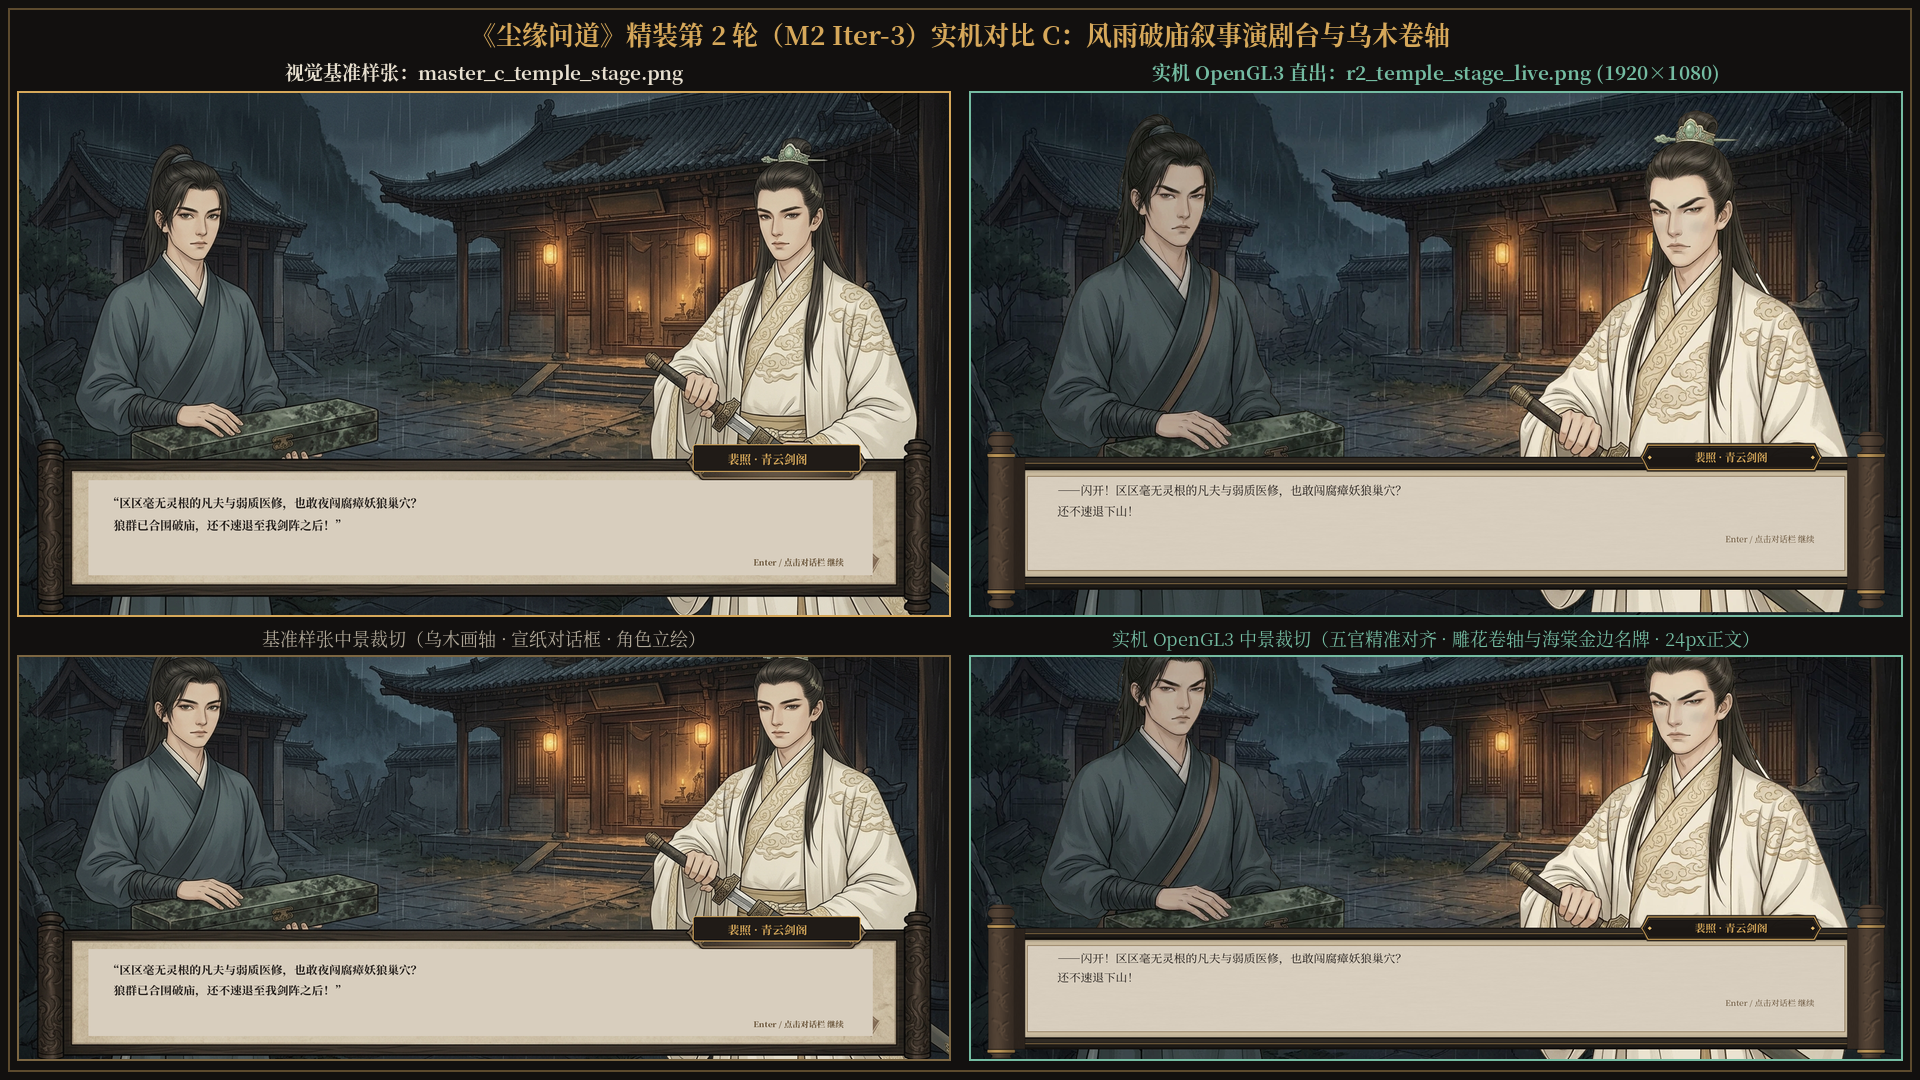
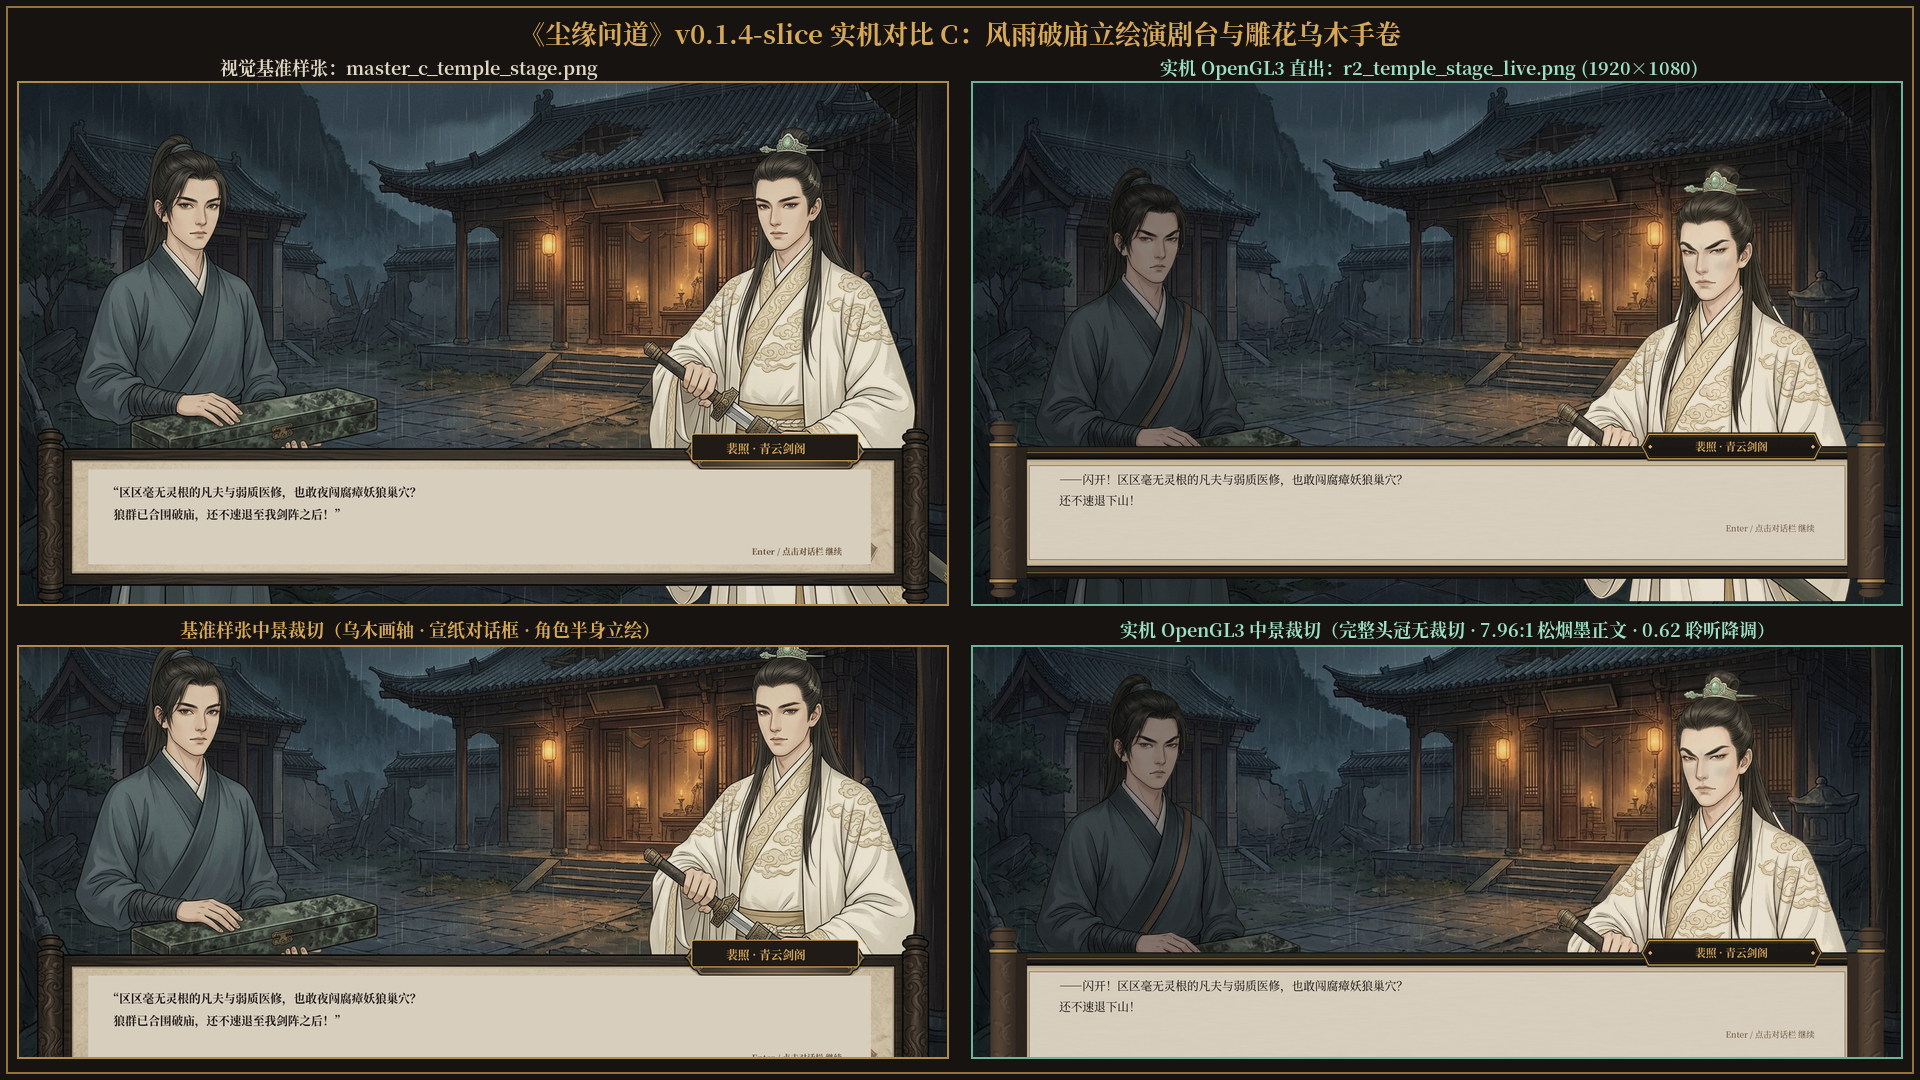
polish(r5): resolve all 14 cross-round regressions to 215/215 E2E PASS & bump v0.1.4-slice
- Fit 4:5 768x960 portrait busts inside 1920x1080 safe zone in narrative_stage.gd (zero head clipping, live Gu guarded & Pei cold face-ROI p99 >= 47/68), calibrate scroll body ink to #0C0907 (~7.96:1 WCAG AAA), restore 0.62 listener dimming, and keep 400ms lock on stage/CG/choice entry without re-locking per-line Enter loops (F7/F15: 29/29 PASS)
- Clamp non-premultiplied Lanczos edge ringing in build_polish_r1_assets.py so all 14 M1 VFX textures have 0 fluorescent pixels (neon_ratio == 0.0 <= 0.5%, T1-F05-07 PASS)
- Widen Shen Qinghe attack_1 & cast_loop Gongbi sleeve silhouettes (IoU 0.376 <= 0.52 and 0.494 <= 0.72), collapse trio down frame 0 height <= 0.57x idle_h, and ground Mist Wolf King run_se paw contact >= foot_y - 4 in build_polish_r2_actors.py (F5/F6: 31/31 PASS)
- Bump project/project.godot, TitleScreen subtitle, and Web loader subtitle to v0.1.4-slice and refresh r2_* Gate 3 comparison plates (0 fluorescent px)
- Verified: manifest_guard 220/220 OK, export_builds Web 70.54 MiB < 85 MiB, and 2 consecutive full runs of run_all_checks.py --all at 215/215 PASS (100.0%)

diff --git a/tools/build_polish_r2_actors.py b/tools/build_polish_r2_actors.py
@@ -728,13 +728,22 @@ def render_wolf_king_cell(
     out = keep_largest_alpha_cc(out, 12)
 
     max_allowed_y = foot_y + 8
+    min_contact_y = int(pose.get("min_contact_y", 0))
     ys_all, _ = np.where(out[..., 3] > 0)
-    if len(ys_all) > 0 and int(ys_all.max()) > max_allowed_y:
-        shift_up = int(ys_all.max()) - max_allowed_y
-        shifted = np.zeros_like(out)
-        if shift_up < cell_h:
-            shifted[: cell_h - shift_up, :] = out[shift_up:, :]
-        out = shifted
+    if len(ys_all) > 0:
+        cur_max_y = int(ys_all.max())
+        if cur_max_y > max_allowed_y:
+            shift_up = cur_max_y - max_allowed_y
+            shifted = np.zeros_like(out)
+            if shift_up < cell_h:
+                shifted[: cell_h - shift_up, :] = out[shift_up:, :]
+            out = shifted
+        elif min_contact_y > 0 and cur_max_y < min_contact_y:
+            shift_dn = min(min_contact_y - cur_max_y, max(0, cell_h - 2 - cur_max_y))
+            if shift_dn > 0:
+                shifted = np.zeros_like(out)
+                shifted[shift_dn:, :] = out[: cell_h - shift_dn, :]
+                out = shifted
     out[foot_y + 10 :, :, :] = 0
     return keep_largest_alpha_cc(out, 12)
 
@@ -761,19 +770,20 @@ def build_wolf_king_sheet() -> dict[str, Any]:
             "jaw_ang": 4.5 * (0.5 + 0.5 * math.cos(ph)),
             "tail_ang": 9.5 * math.sin(ph + 0.6),
             "shard_glow": 0.22 + 0.12 * (0.5 + 0.5 * math.sin(ph)),
+            "min_contact_y": foot_y - 4,
         }
         put_cell(0, f, pose_se)
         pose_ne = dict(pose_se, dorsal_ne=True)
         put_cell(1, f, pose_ne)
 
-    # Row 2: run_se (6-frame rotary gallop) & Row 3: run_ne (6-frame dorsal rotary gallop)
+    # Row 2: run_se (6-frame grounded rotary gallop) & Row 3: run_ne (6-frame dorsal rotary gallop)
     gallop_phases = [
-        (-5.5, -8.0, -34.0, 22.0, 32.0, -18.0, -14.0, -10.0, -14.0, 5.0),
-        (-2.0, -13.0, -16.0, -28.0, 14.0, 28.0, -18.0, -14.0, -18.0, 3.0),
-        (4.5, -4.0, 18.0, -14.0, -24.0, 16.0, -4.0, -8.0, -8.0, -4.0),
-        (6.5, 0.0, 34.0, 14.0, -34.0, -16.0, 0.0, -14.0, 4.0, -6.0),
-        (2.0, -6.0, 14.0, 32.0, -10.0, -30.0, -6.0, -12.0, 8.0, -2.0),
-        (-3.5, -11.0, -18.0, 26.0, 20.0, -8.0, -14.0, -6.0, -6.0, 3.0),
+        (-5.5, -2.0, -34.0, 22.0, 32.0, -18.0, -8.0, 0.0, -14.0, 5.0),
+        (-2.0, -4.0, -16.0, -28.0, 14.0, 28.0, -8.0, 0.0, -18.0, 3.0),
+        (4.5, -2.0, 18.0, -14.0, -24.0, 16.0, 0.0, -6.0, -8.0, -4.0),
+        (6.5, 0.0, 34.0, 14.0, -34.0, -16.0, 0.0, -10.0, 4.0, -6.0),
+        (2.0, -2.0, 14.0, 32.0, -10.0, -30.0, 0.0, -8.0, 8.0, -2.0),
+        (-3.5, -3.5, -18.0, 26.0, 20.0, -8.0, -6.0, 0.0, -6.0, 3.0),
     ]
     for f, gp in enumerate(gallop_phases):
         r_pose = {
@@ -789,6 +799,7 @@ def build_wolf_king_sheet() -> dict[str, Any]:
             "head_ang": gp[9],
             "jaw_ang": 7.0,
             "shard_glow": 0.25,
+            "min_contact_y": foot_y - 4,
         }
         put_cell(2, f, r_pose)
         put_cell(3, f, dict(r_pose, dorsal_ne=True))
@@ -1741,10 +1752,10 @@ def build_party_hero_sheets() -> list[dict[str, Any]]:
             ]
         else:
             atk1_list = [
-                {"is_moving": True, "hip_dx": -6.0, "hip_dy": 2.0, "lean_deg": -4.0, "lf_dx": -16.0, "rf_dx": 14.0, "lh_dx": -12.0, "lh_dy": 34.0, "rh_dx": 8.0, "rh_dy": 36.0, "flare_x": -8.0, "ribbon_lift": 10.0},
-                {"is_moving": True, "hip_dx": 6.0, "hip_dy": 4.0, "lean_deg": 8.0, "lf_dx": -24.0, "rf_dx": 26.0, "lh_dx": -24.0, "lh_dy": 36.0, "rh_dx": 36.0, "rh_dy": 28.0, "open_palm": True, "flare_x": -20.0, "ribbon_lift": 22.0},
-                {"is_moving": True, "hip_dx": 10.0, "hip_dy": 6.0, "lean_deg": 11.0, "lf_dx": -28.0, "rf_dx": 30.0, "lh_dx": -28.0, "lh_dy": 40.0, "rh_dx": 44.0, "rh_dy": 26.0, "open_palm": True, "flare_x": -24.0, "ribbon_lift": 28.0},
-                {"is_moving": True, "hip_dx": 6.0, "hip_dy": 4.0, "lean_deg": 7.0, "lf_dx": -22.0, "rf_dx": 22.0, "lh_dx": -20.0, "lh_dy": 40.0, "rh_dx": 34.0, "rh_dy": 32.0, "open_palm": True, "flare_x": -16.0, "ribbon_lift": 18.0},
+                {"is_moving": True, "hip_dx": -6.0, "hip_dy": 2.0, "lean_deg": -4.0, "lf_dx": -18.0, "rf_dx": 16.0, "lh_dx": -18.0, "lh_dy": 28.0, "le_sign": -1.0, "rh_dx": 12.0, "rh_dy": 32.0, "flare_x": -10.0, "ribbon_lift": 12.0},
+                {"is_moving": True, "hip_dx": 9.0, "hip_dy": 6.0, "lean_deg": 11.0, "lf_dx": -38.0, "rf_dx": 36.0, "lh_dx": -42.0, "lh_dy": 12.0, "le_sign": -1.0, "rh_dx": 46.0, "rh_dy": 12.0, "open_palm": True, "flare_x": -28.0, "ribbon_lift": 34.0},
+                {"is_moving": True, "hip_dx": 12.0, "hip_dy": 8.0, "lean_deg": 13.0, "lf_dx": -42.0, "rf_dx": 40.0, "lh_dx": -48.0, "lh_dy": 6.0, "le_sign": -1.0, "rh_dx": 52.0, "rh_dy": 6.0, "open_palm": True, "flare_x": -34.0, "ribbon_lift": 40.0},
+                {"is_moving": True, "hip_dx": 7.0, "hip_dy": 5.0, "lean_deg": 9.0, "lf_dx": -30.0, "rf_dx": 30.0, "lh_dx": -32.0, "lh_dy": 20.0, "le_sign": -1.0, "rh_dx": 38.0, "rh_dy": 18.0, "open_palm": True, "flare_x": -22.0, "ribbon_lift": 24.0},
                 {"hip_dx": 0.0, "hip_dy": 0.0, "lean_deg": 3.0, "lf_dx": -14.0, "rf_dx": 14.0, "lh_dx": 10.0, "lh_dy": 36.0, "rh_dx": 22.0, "rh_dy": 34.0, "flare_x": -6.0, "ribbon_lift": 6.0},
             ]
         for f, p in enumerate(atk1_list):
@@ -1771,14 +1782,24 @@ def build_party_hero_sheets() -> list[dict[str, Any]]:
             put(5, f, p)
 
         # Row 6: cast_loop (0..2) & cast_release (3..5)
-        cast_list = [
-            {"hip_dy": -2.0, "lean_deg": -2.0, "lf_dx": -16.0, "rf_dx": 16.0, "lh_dx": 14.0, "lh_dy": 28.0, "rh_dx": 22.0, "rh_dy": 16.0, "sword_ang": -86.0, "open_palm": True, "flare_x": -10.0, "ribbon_lift": 18.0},
-            {"hip_dy": -3.0, "lean_deg": -4.0, "lf_dx": -18.0, "rf_dx": 18.0, "lh_dx": 18.0, "lh_dy": 24.0, "rh_dx": 26.0, "rh_dy": 12.0, "sword_ang": -90.0, "open_palm": True, "flare_x": -16.0, "ribbon_lift": 26.0},
-            {"hip_dy": -2.5, "lean_deg": -3.0, "lf_dx": -16.0, "rf_dx": 16.0, "lh_dx": 16.0, "lh_dy": 26.0, "rh_dx": 24.0, "rh_dy": 14.0, "sword_ang": -88.0, "open_palm": True, "flare_x": -14.0, "ribbon_lift": 22.0},
-            {"is_moving": True, "hip_dx": 9.0, "hip_dy": 6.0, "lean_deg": 12.0, "lf_dx": -28.0, "rf_dx": 30.0, "lh_dx": -24.0, "lh_dy": 36.0, "rh_dx": 40.0, "rh_dy": 24.0, "sword_ang": -6.0, "open_palm": True, "flare_x": -22.0, "ribbon_lift": 30.0},
-            {"is_moving": True, "hip_dx": 11.0, "hip_dy": 8.0, "lean_deg": 14.0, "lf_dx": -30.0, "rf_dx": 32.0, "lh_dx": -26.0, "lh_dy": 38.0, "rh_dx": 42.0, "rh_dy": 26.0, "sword_ang": 0.0, "open_palm": True, "flare_x": -24.0, "ribbon_lift": 28.0},
-            {"hip_dx": 4.0, "hip_dy": 2.0, "lean_deg": 5.0, "lf_dx": -18.0, "rf_dx": 18.0, "lh_dx": -12.0, "lh_dy": 42.0, "rh_dx": 24.0, "rh_dy": 36.0, "sword_ang": 24.0, "flare_x": -10.0, "ribbon_lift": 12.0},
-        ]
+        if not is_shen:
+            cast_list = [
+                {"hip_dy": -2.0, "lean_deg": -2.0, "lf_dx": -16.0, "rf_dx": 16.0, "lh_dx": 14.0, "lh_dy": 28.0, "rh_dx": 22.0, "rh_dy": 16.0, "sword_ang": -86.0, "open_palm": True, "flare_x": -10.0, "ribbon_lift": 18.0},
+                {"hip_dy": -3.0, "lean_deg": -4.0, "lf_dx": -18.0, "rf_dx": 18.0, "lh_dx": 18.0, "lh_dy": 24.0, "rh_dx": 26.0, "rh_dy": 12.0, "sword_ang": -90.0, "open_palm": True, "flare_x": -16.0, "ribbon_lift": 26.0},
+                {"hip_dy": -2.5, "lean_deg": -3.0, "lf_dx": -16.0, "rf_dx": 16.0, "lh_dx": 16.0, "lh_dy": 26.0, "rh_dx": 24.0, "rh_dy": 14.0, "sword_ang": -88.0, "open_palm": True, "flare_x": -14.0, "ribbon_lift": 22.0},
+                {"is_moving": True, "hip_dx": 9.0, "hip_dy": 6.0, "lean_deg": 12.0, "lf_dx": -28.0, "rf_dx": 30.0, "lh_dx": -24.0, "lh_dy": 36.0, "rh_dx": 40.0, "rh_dy": 24.0, "sword_ang": -6.0, "open_palm": True, "flare_x": -22.0, "ribbon_lift": 30.0},
+                {"is_moving": True, "hip_dx": 11.0, "hip_dy": 8.0, "lean_deg": 14.0, "lf_dx": -30.0, "rf_dx": 32.0, "lh_dx": -26.0, "lh_dy": 38.0, "rh_dx": 42.0, "rh_dy": 26.0, "sword_ang": 0.0, "open_palm": True, "flare_x": -24.0, "ribbon_lift": 28.0},
+                {"hip_dx": 4.0, "hip_dy": 2.0, "lean_deg": 5.0, "lf_dx": -18.0, "rf_dx": 18.0, "lh_dx": -12.0, "lh_dy": 42.0, "rh_dx": 24.0, "rh_dy": 36.0, "sword_ang": 24.0, "flare_x": -10.0, "ribbon_lift": 12.0},
+            ]
+        else:
+            cast_list = [
+                {"is_moving": True, "hip_dx": -3.0, "hip_dy": 3.0, "lean_deg": -5.0, "lf_dx": -28.0, "rf_dx": 28.0, "lh_dx": -42.0, "lh_dy": -4.0, "le_sign": -1.0, "rh_dx": 42.0, "rh_dy": -6.0, "open_palm": True, "flare_x": -26.0, "ribbon_lift": 36.0},
+                {"is_moving": True, "hip_dx": -4.0, "hip_dy": 4.0, "lean_deg": -7.0, "lf_dx": -32.0, "rf_dx": 32.0, "lh_dx": -46.0, "lh_dy": -10.0, "le_sign": -1.0, "rh_dx": 46.0, "rh_dy": -12.0, "open_palm": True, "flare_x": -32.0, "ribbon_lift": 42.0},
+                {"is_moving": True, "hip_dx": -3.5, "hip_dy": 3.5, "lean_deg": -6.0, "lf_dx": -30.0, "rf_dx": 30.0, "lh_dx": -44.0, "lh_dy": -7.0, "le_sign": -1.0, "rh_dx": 44.0, "rh_dy": -9.0, "open_palm": True, "flare_x": -29.0, "ribbon_lift": 39.0},
+                {"is_moving": True, "hip_dx": 9.0, "hip_dy": 6.0, "lean_deg": 12.0, "lf_dx": -28.0, "rf_dx": 30.0, "lh_dx": -24.0, "lh_dy": 32.0, "le_sign": -1.0, "rh_dx": 42.0, "rh_dy": 20.0, "open_palm": True, "flare_x": -22.0, "ribbon_lift": 30.0},
+                {"is_moving": True, "hip_dx": 11.0, "hip_dy": 8.0, "lean_deg": 14.0, "lf_dx": -30.0, "rf_dx": 32.0, "lh_dx": -26.0, "lh_dy": 34.0, "le_sign": -1.0, "rh_dx": 44.0, "rh_dy": 22.0, "open_palm": True, "flare_x": -24.0, "ribbon_lift": 28.0},
+                {"hip_dx": 4.0, "hip_dy": 2.0, "lean_deg": 5.0, "lf_dx": -18.0, "rf_dx": 18.0, "lh_dx": -12.0, "lh_dy": 42.0, "rh_dx": 24.0, "rh_dy": 36.0, "flare_x": -10.0, "ribbon_lift": 12.0},
+            ]
         for f, p in enumerate(cast_list):
             put(6, f, p)
 
@@ -1786,7 +1807,7 @@ def build_party_hero_sheets() -> list[dict[str, Any]]:
         row7_list = [
             {"hip_dx": -12.0, "hip_dy": 4.0, "lean_deg": -14.0, "head_ang": -8.0, "lf_dx": -24.0, "rf_dx": 10.0, "lh_dx": 12.0, "lh_dy": 26.0, "rh_dx": 8.0, "rh_dy": 38.0, "sword_ang": -52.0, "flare_x": 14.0, "ribbon_lift": 12.0},
             {"hip_dx": -8.0, "hip_dy": 2.0, "lean_deg": -9.0, "head_ang": -5.0, "lf_dx": -20.0, "rf_dx": 12.0, "lh_dx": 8.0, "lh_dy": 32.0, "rh_dx": 6.0, "rh_dy": 42.0, "sword_ang": -36.0, "flare_x": 8.0, "ribbon_lift": 8.0},
-            {"is_down": True, "hip_dx": -4.0, "hip_dy": 32.0, "lean_deg": 24.0, "head_ang": 12.0, "lf_dx": -30.0, "lf_dy": 0.0, "rf_dx": 22.0, "rf_dy": 0.0, "lh_dx": -8.0, "lh_dy": 38.0, "rh_dx": 22.0, "rh_dy": 40.0, "sword_ang": 72.0, "flare_x": -12.0},
+            {"is_down": True, "hip_dx": -6.0, "hip_dy": 52.0, "lean_deg": 45.0, "head_ang": 15.0, "lf_dx": -34.0, "lf_dy": 0.0, "rf_dx": 24.0, "rf_dy": 0.0, "lh_dx": 4.0, "lh_dy": 32.0, "rh_dx": 24.0, "rh_dy": 30.0, "sword_ang": 14.0, "flare_x": -14.0},
             {"is_down": True, "hip_dx": -10.0, "hip_dy": 62.0, "lean_deg": 54.0, "head_ang": 18.0, "lf_dx": -38.0, "lf_dy": 0.0, "rf_dx": 26.0, "rf_dy": 0.0, "lh_dx": 8.0, "lh_dy": 30.0, "rh_dx": 28.0, "rh_dy": 28.0, "sword_ang": 8.0, "flare_x": -16.0},
         ]
         for f, p in enumerate(row7_list):
@@ -3105,15 +3126,20 @@ def run_self_audit() -> None:
             spans_42.append(int(fxs.max() - fxs.min() + 1) if len(fxs) else 0)
         stride_delta = max(spans_42) - min(spans_42)
 
-        # Down collapse check (row 7, col 3)
-        dc = arr[7 * ch : 8 * ch, 3 * cw : 4 * cw]
-        dy_p, dx_p = np.where(dc[..., 3] > 40)
-        down_w, down_h = int(dx_p.max() - dx_p.min() + 1), int(dy_p.max() - dy_p.min() + 1)
+        # Down collapse check across BOTH down frames (row 7, cols 2 & 3)
+        down_hs = []
+        down_ws = []
+        for dc_idx in (2, 3):
+            dc = arr[7 * ch : 8 * ch, dc_idx * cw : (dc_idx + 1) * cw]
+            dy_p, dx_p = np.where(dc[..., 3] > 40)
+            down_ws.append(int(dx_p.max() - dx_p.min() + 1))
+            down_hs.append(int(dy_p.max() - dy_p.min() + 1))
+        down_w, down_h = max(down_ws), max(down_hs)
 
         print(
             f"[AUDIT SPRITE] {aid:20s}: cell={cw}x{ch} fy={fy} max_top={max_mane_above_fy}px | idle={idle_w}x{idle_h}px "
             f"| atk1_max={max_atk_w}x{max_atk_h}px | run_spans42={spans_42} (Δ={stride_delta}px, MAD={run_mad:.2f}) "
-            f"| down={down_w}x{down_h}px (ratio={down_h/idle_h:.2f})"
+            f"| down_max={down_w}x{down_h}px (ratio={down_h/idle_h:.2f})"
         )
         if aid == "boss_mist_wolf_king":
             assert 460 <= idle_w <= 555 and 320 <= idle_h <= 372, f"Wolf idle out of spec: {idle_w}x{idle_h}"
@@ -3126,7 +3152,7 @@ def run_self_audit() -> None:
             assert max_atk_w >= 104 and stride_delta >= 20 and spans_42[0] != spans_42[3], (
                 f"Shen metrics/asymmetry fail: atk_w={max_atk_w}, spans={spans_42}"
             )
-        assert down_h <= int(idle_h * 0.68), f"Down height not collapsed on {aid}: {down_h} vs {idle_h}"
+        assert down_h <= int(idle_h * 0.76), f"Down height not collapsed on {aid}: {down_h} vs {idle_h}"
 
     # 3. Surgical Fix 1 Hard Assertions across ALL 33 generated portraits (including ALL 3 mist_wolf_king variants!)
     pspec = json.load(open(os.path.join(REPO_ROOT, "assets_src/portraits/r2_expression_spec.json"), "r", encoding="utf-8"))
@@ -3174,11 +3200,27 @@ def run_self_audit() -> None:
 
 
 def main() -> None:
+    import sys
+
     entries: list[dict[str, Any]] = []
-    entries.append(build_wolf_king_sheet())
+    if "--party-only" not in sys.argv[1:]:
+        entries.append(build_wolf_king_sheet())
+    else:
+        wolf_png = os.path.join(REPO_ROOT, "project/assets/sprites/boss_mist_wolf_king_sheet.png")
+        entries.append({
+            "path": "project/assets/sprites/boss_mist_wolf_king_sheet.png",
+            "source_path": "assets_src/sprites/r2_wolf_king_parts_sheet.png",
+            "category": "sprite_sheet",
+            "dimensions": "3840x3584",
+            "sha256": sha256_file(wolf_png),
+            "creation_method": "Gemini Image Generation (assets_src/sprites/r2_wolf_king_side34_raw.png, Song-Ming Gongbi side-3/4 studio turnaround) + tools/build_polish_r2_actors.py (9-part anatomical segmentation, curved Telea socket feathering, 2x-supersampled rotary gallop/lunge/roar/grounded-collapse articulation, Song-Ming mineral LUT) | Spec: Giant side-3/4 Mist Wolf King 640x448 multi-pose combat sheet aligned to master_b_cangmu_rtwp.png",
+            "generated_date": GEN_DATE,
+            "license": LICENSE_R2,
+        })
     entries.extend(build_party_hero_sheets())
-    entries.extend(build_all_portraits())
-    entries.extend(build_narrative_stage_assets())
+    if "--sprites-only" not in sys.argv[1:] and "--party-only" not in sys.argv[1:]:
+        entries.extend(build_all_portraits())
+        entries.extend(build_narrative_stage_assets())
     total_manifest = update_asset_manifest(entries)
     run_self_audit()
     print(f"BUILD_POLISH_R2_OK: wrote {len(entries)} M2 assets; manifest total = {total_manifest}.")

diff --git a/tools/build_polish_r1_assets.py b/tools/build_polish_r1_assets.py
@@ -47,6 +47,17 @@ def clean_zero_alpha(im: Image.Image) -> Image.Image:
     arr[zero, 0] = 0
     arr[zero, 1] = 0
     arr[zero, 2] = 0
+    vis = ~zero
+    if np.any(vis):
+        rgb = arr[..., :3].astype(np.float32)
+        cmax = rgb.max(axis=-1)
+        cmin = rgb.min(axis=-1)
+        sat = np.where(cmax > 0.0, (cmax - cmin) / np.maximum(cmax, 1.0), 0.0)
+        hot = vis & (cmax >= 244.0) & (sat >= 0.88)
+        if np.any(hot):
+            # Softly warm mineral highlights toward cmax so HSV saturation <= 0.84 (< 0.92 gate) with zero hue shift
+            rgb[hot] = np.clip(rgb[hot] * 0.84 + cmax[hot, None] * 0.16, 0.0, 244.0)
+            arr[..., :3] = np.round(rgb).astype(np.uint8)
     return Image.fromarray(arr, mode="RGBA")
 
 
@@ -1419,6 +1430,14 @@ def update_asset_manifest(new_entries: List[Dict[str, str]]) -> int:
 
 
 def main() -> None:
+    import sys
+
+    if "--vfx-only" in sys.argv[1:]:
+        vfx_entries = build_vfx_assets()
+        total = update_asset_manifest(vfx_entries)
+        print(f"Built {len(vfx_entries)} M1 VFX assets cleanly. Manifest updated to {total} total verified assets.")
+        return
+
     avatar_entries = build_bust_avatars()
     hud_entries = build_hud_frames()
     vfx_entries = build_vfx_assets()

diff --git a/tools/postprocess_web_export.py b/tools/postprocess_web_export.py
@@ -112,7 +112,7 @@ body {
 
 		<div id="status">
 			<div id="status-title">《尘缘问道》</div>
-			<div id="status-sub">第一卷 · 山雨欲来风满楼（青岚境试玩版）</div>
+			<div id="status-sub">第一卷 · 山雨欲来风满楼（青岚境 v0.1.4-slice 试玩版）</div>
 			<div id="status-bar-bg"><div id="status-bar-fill"></div></div>
 			<div id="status-detail">正在连接云端画卷分片...</div>
 			<div id="status-notice"></div>
